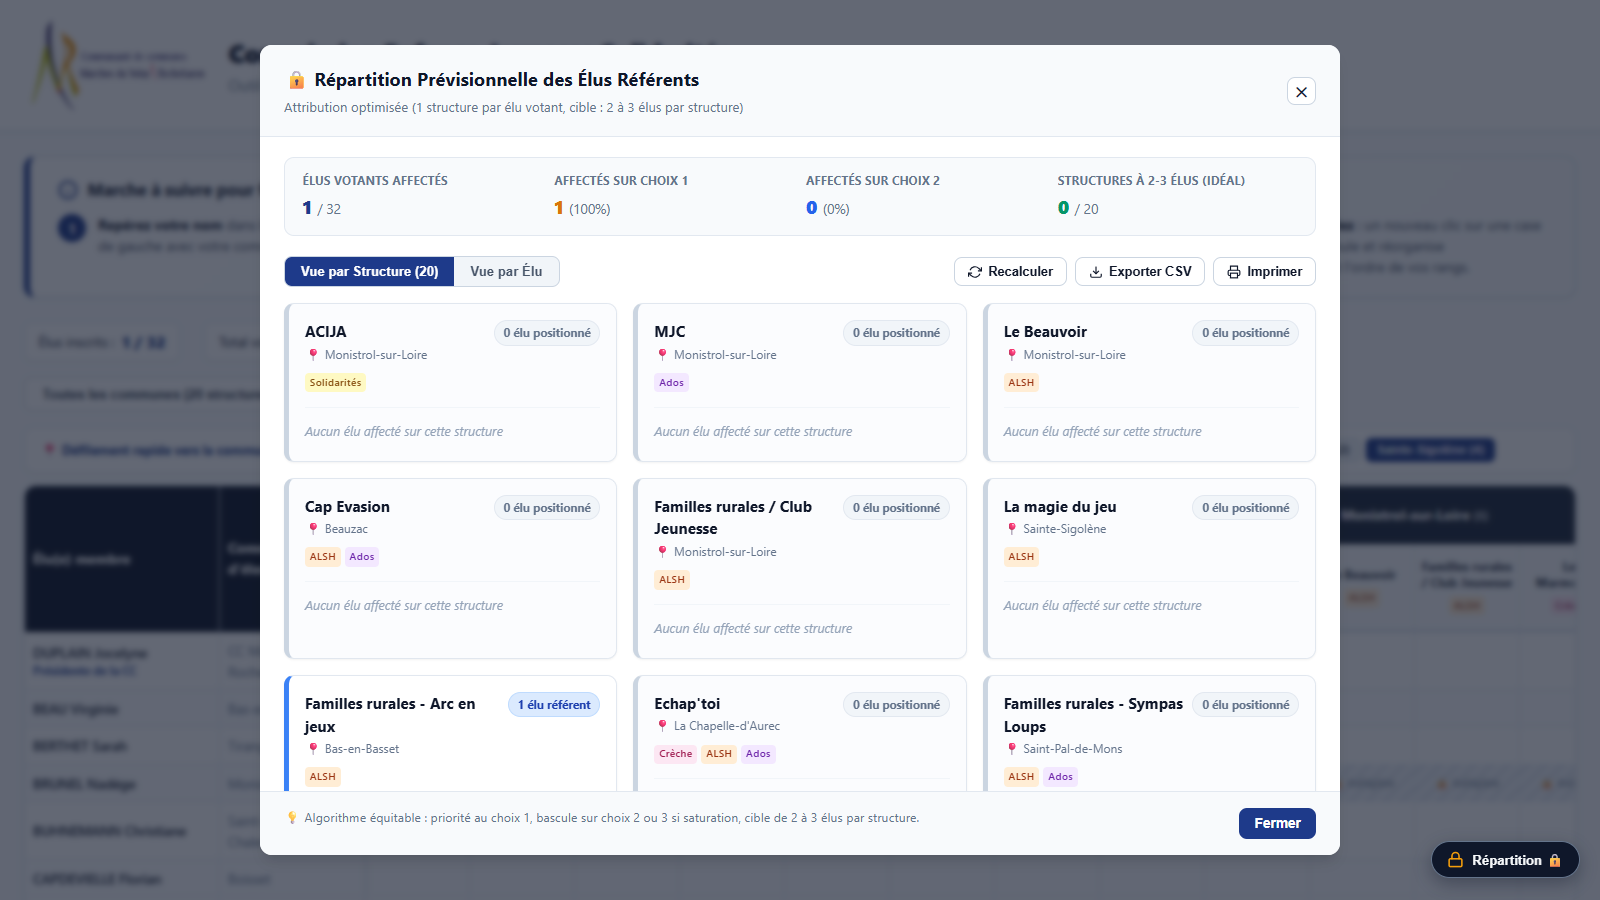
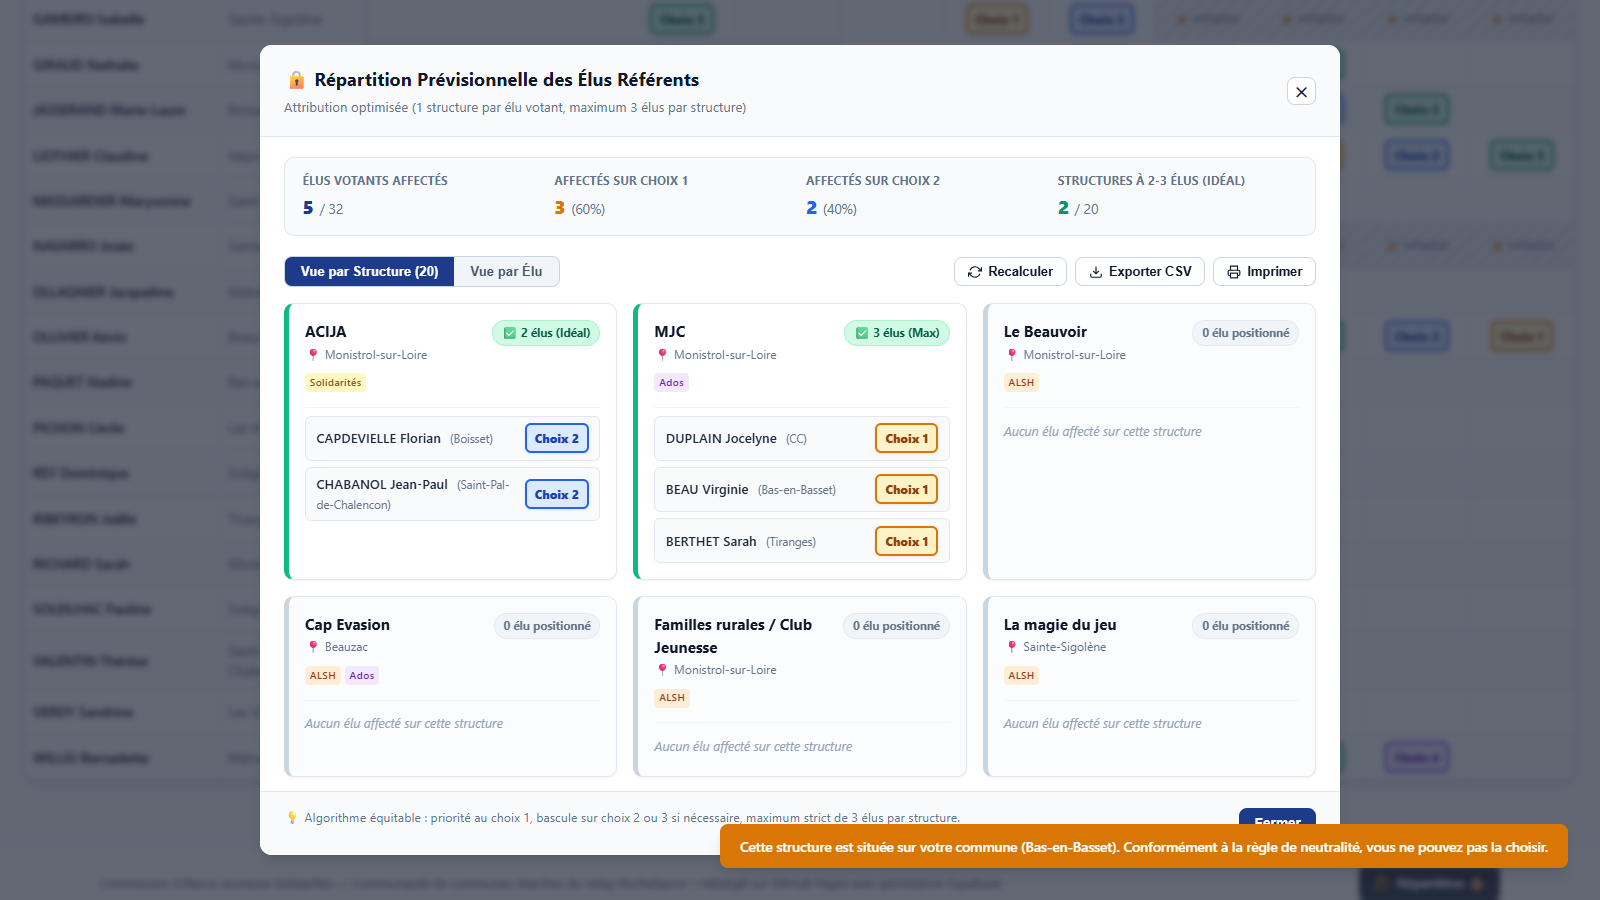
Add files via upload

diff --git a/js/app.js b/js/app.js
@@ -297,6 +297,7 @@ class CommissionApp {
                 }
             };
         }
+        const MAX_PER_STRUCTURE = 3;
 
         const rankCost = (r) => {
             if (r === 1) return 0;
@@ -310,8 +311,8 @@ class CommissionApp {
             if (count === 0) return hadDemand ? 15 : 0;
             if (count === 1) return 5;
             if (count === 2 || count === 3) return 0; // Cible idéale : 2 à 3 élus
-            if (count === 4) return 50;
-            return 50 + (count - 4) * 100;
+            // STRICT MAXIMUM DE 3 : Pénalité rédhibitoire pour tout dépassement de 3
+            return 100000 * (count - 3);
         };
 
         const demandedStructures = new Set();
@@ -324,16 +325,78 @@ class CommissionApp {
         const structureCounts = {};
         this.structures.forEach(s => structureCounts[s.name] = 0);
 
+        // Phase 1 : Affectation initiale avec strict respect de la limite de 3 élus max
         sortedVoters.forEach(v => {
-            let bestChoice = v.choices.find(c => structureCounts[c.structure_nom] < 3);
+            let bestChoice = v.choices.find(c => (structureCounts[c.structure_nom] || 0) < MAX_PER_STRUCTURE);
             if (!bestChoice) {
                 bestChoice = v.choices.reduce((minC, curC) => 
-                    structureCounts[curC.structure_nom] < structureCounts[minC.structure_nom] ? curC : minC
+                    (structureCounts[curC.structure_nom] || 0) < (structureCounts[minC.structure_nom] || 0) ? curC : minC
                 , v.choices[0]);
             }
             assignment[v.elu_nom] = bestChoice.structure_nom;
-            structureCounts[bestChoice.structure_nom]++;
+            structureCounts[bestChoice.structure_nom] = (structureCounts[bestChoice.structure_nom] || 0) + 1;
         });
+
+        // Résolution proactive de tout dépassement (> 3) par réaffectation / chaînes de déplacement
+        const resolveOvercapacity = () => {
+            let changed = true;
+            let guard = 0;
+            while (changed && guard < 100) {
+                changed = false;
+                guard++;
+
+                const overfull = this.structures.filter(s => (structureCounts[s.name] || 0) > MAX_PER_STRUCTURE);
+                if (overfull.length === 0) break;
+
+                for (const s of overfull) {
+                    const elusInS = voters.filter(v => assignment[v.elu_nom] === s.name);
+                    let moved = false;
+
+                    // 1. Déplacement direct vers un choix alternatif avec < 3 élus
+                    for (const v of elusInS) {
+                        const altChoice = v.choices.find(c => c.structure_nom !== s.name && (structureCounts[c.structure_nom] || 0) < MAX_PER_STRUCTURE);
+                        if (altChoice) {
+                            assignment[v.elu_nom] = altChoice.structure_nom;
+                            structureCounts[s.name]--;
+                            structureCounts[altChoice.structure_nom] = (structureCounts[altChoice.structure_nom] || 0) + 1;
+                            moved = true;
+                            changed = true;
+                            break;
+                        }
+                    }
+                    if (moved) continue;
+
+                    // 2. Déplacement en chaîne (2 sauts)
+                    for (const v of elusInS) {
+                        for (const c of v.choices) {
+                            if (c.structure_nom === s.name) continue;
+                            const intermediateStruct = c.structure_nom;
+                            const elusInInter = voters.filter(v2 => assignment[v2.elu_nom] === intermediateStruct);
+                            for (const v2 of elusInInter) {
+                                const freeChoice = v2.choices.find(c2 => c2.structure_nom !== intermediateStruct && (structureCounts[c2.structure_nom] || 0) < MAX_PER_STRUCTURE);
+                                if (freeChoice) {
+                                    assignment[v2.elu_nom] = freeChoice.structure_nom;
+                                    structureCounts[intermediateStruct]--;
+                                    structureCounts[freeChoice.structure_nom] = (structureCounts[freeChoice.structure_nom] || 0) + 1;
+
+                                    assignment[v.elu_nom] = intermediateStruct;
+                                    structureCounts[s.name]--;
+                                    structureCounts[intermediateStruct] = (structureCounts[intermediateStruct] || 0) + 1;
+
+                                    moved = true;
+                                    changed = true;
+                                    break;
+                                }
+                            }
+                            if (moved) break;
+                        }
+                        if (moved) break;
+                    }
+                }
+            }
+        };
+
+        resolveOvercapacity();
 
         const calcTotalCost = () => {
             let cost = 0;
@@ -352,19 +415,21 @@ class CommissionApp {
         let improved = true;
         let iteration = 0;
 
-        while (improved && iteration < 250) {
+        while (improved && iteration < 300) {
             improved = false;
             iteration++;
 
-            // A. Déplacement individuel vers un autre choix
+            // A. Déplacement individuel vers un autre choix (STRICTEMENT plafonné à 3 élus max)
             for (const v of voters) {
                 const curStruct = assignment[v.elu_nom];
                 for (const ch of v.choices) {
                     if (ch.structure_nom === curStruct) continue;
+                    // Interdiction de déplacer un élu vers une structure ayant déjà 3 élus ou plus
+                    if ((structureCounts[ch.structure_nom] || 0) >= MAX_PER_STRUCTURE) continue;
 
                     assignment[v.elu_nom] = ch.structure_nom;
                     structureCounts[curStruct]--;
-                    structureCounts[ch.structure_nom]++;
+                    structureCounts[ch.structure_nom] = (structureCounts[ch.structure_nom] || 0) + 1;
 
                     const newCost = calcTotalCost();
                     if (newCost < currentCost) {
@@ -382,7 +447,7 @@ class CommissionApp {
 
             if (improved) continue;
 
-            // B. Échange (swap) entre 2 votants
+            // B. Échange (swap) entre 2 votants (conserve strictement les effectifs par structure)
             for (let i = 0; i < voters.length; i++) {
                 for (let j = i + 1; j < voters.length; j++) {
                     const v1 = voters[i];
@@ -412,6 +477,9 @@ class CommissionApp {
                 if (improved) break;
             }
         }
+
+        // Sécurité finale : s'assurer qu'aucun dépassement résiduel n'existe
+        resolveOvercapacity();
 
         const structureAllocations = {};
         this.structures.forEach(s => {
@@ -520,14 +588,18 @@ class CommissionApp {
                     cardClass = "status-single";
                     badgeClass = "rep-badge-single";
                     badgeLabel = "1 élu référent";
-                } else if (count >= 2 && count <= 3) {
+                } else if (count === 2) {
                     cardClass = "status-ideal";
                     badgeClass = "rep-badge-ideal";
-                    badgeLabel = `✅ Idéal (${count} élus)`;
+                    badgeLabel = `✅ 2 élus (Idéal)`;
+                } else if (count === 3) {
+                    cardClass = "status-ideal";
+                    badgeClass = "rep-badge-ideal";
+                    badgeLabel = `✅ 3 élus (Max)`;
                 } else if (count > 3) {
                     cardClass = "status-over";
                     badgeClass = "rep-badge-over";
-                    badgeLabel = `⚠ ${count} élus`;
+                    badgeLabel = `⚠ ${count} élus (>3)`;
                 }
 
                 const serviceTags = s.services.map(srv => {

diff --git a/index.html b/index.html
@@ -7,7 +7,7 @@
     <meta http-equiv="Pragma" content="no-cache">
     <meta http-equiv="Expires" content="0">
     <title>Commission Enfance Jeunesse Solidarités - Inscription des Élus aux Structures</title>
-    <link rel="stylesheet" href="css/styles.css?v=2.1">
+    <link rel="stylesheet" href="css/styles.css?v=2.2">
 </head>
 <body>
 
@@ -127,7 +127,17 @@
 
     <!-- 5. PIED DE PAGE -->
     <footer>
-        <p>Commission Enfance Jeunesse Solidarités — Communauté de communes Marches du Velay Rochebaron • Hébergé sur GitHub Pages avec persistance Supabase</p>
+        <div class="footer-inner">
+            <p>Commission Enfance Jeunesse Solidarités — Communauté de communes Marches du Velay Rochebaron • Hébergé sur GitHub Pages avec persistance Supabase</p>
+            <!-- BOUTON DISCRET EN BAS DE PAGE (RÉPARTITION COORDINATEUR) -->
+            <button id="btnOpenRepartitionModal" class="btn-footer-lock" title="Espace coordinateur : Répartition prévisionnelle des élus référents par structure">
+                <svg width="15" height="15" viewBox="0 0 24 24" fill="none" stroke="currentColor" stroke-width="2.2" stroke-linecap="round" stroke-linejoin="round">
+                    <rect x="3" y="11" width="18" height="11" rx="2" ry="2"></rect>
+                    <path d="M7 11V7a5 5 0 0 1 10 0v4"></path>
+                </svg>
+                <span>Répartition 🔒</span>
+            </button>
+        </div>
     </footer>
 
     <!-- 6. MODAL SCRIPT SQL SUPABASE (NON-DESTRUCTIF) -->
@@ -181,22 +191,13 @@ END $$;</pre>
         </div>
     </div>
 
-    <!-- 7. BOUTON CADENAS FLOTTANT (RÉPARTITION COORDINATEUR) -->
-    <button id="btnOpenRepartitionModal" class="btn-floating-lock" title="Espace coordinateur : Répartition prévisionnelle des élus référents par structure">
-        <svg width="17" height="17" viewBox="0 0 24 24" fill="none" stroke="currentColor" stroke-width="2.2" stroke-linecap="round" stroke-linejoin="round">
-            <rect x="3" y="11" width="18" height="11" rx="2" ry="2"></rect>
-            <path d="M7 11V7a5 5 0 0 1 10 0v4"></path>
-        </svg>
-        <span class="floating-lock-text">Répartition 🔒</span>
-    </button>
-
-    <!-- 8. MODAL RÉPARTITION ÉLUS PAR STRUCTURE -->
+    <!-- 7. MODAL RÉPARTITION ÉLUS PAR STRUCTURE -->
     <div id="repartitionModal" class="modal-backdrop" style="display: none;">
         <div class="modal-card modal-repartition-card">
             <div class="modal-header">
                 <div>
                     <h3>🔒 Répartition Prévisionnelle des Élus Référents</h3>
-                    <p class="modal-subtitle">Attribution optimisée (1 structure par élu votant, cible : 2 à 3 élus par structure)</p>
+                    <p class="modal-subtitle">Attribution optimisée (1 structure par élu votant, maximum 3 élus par structure)</p>
                 </div>
                 <button id="btnCloseRepartitionModal" class="btn btn-secondary" style="padding: 0.25rem 0.5rem;">✕</button>
             </div>
@@ -232,7 +233,7 @@ END $$;</pre>
             </div>
 
             <div class="modal-footer">
-                <span class="repartition-footer-note">💡 Algorithme équitable : priorité au choix 1, bascule sur choix 2 ou 3 si saturation, cible de 2 à 3 élus par structure.</span>
+                <span class="repartition-footer-note">💡 Algorithme équitable : priorité au choix 1, bascule sur choix 2 ou 3 si nécessaire, maximum strict de 3 élus par structure.</span>
                 <button id="btnDismissRepartitionModal" class="btn btn-primary">Fermer</button>
             </div>
         </div>
@@ -242,6 +243,6 @@ END $$;</pre>
     <div id="toastContainer" class="toast-container"></div>
 
     <!-- 8. SCRIPTS APPLICATIFS -->
-    <script type="module" src="js/app.js?v=2.1"></script>
+    <script type="module" src="js/app.js?v=2.2"></script>
 </body>
 </html>

diff --git a/css/styles.css b/css/styles.css
@@ -738,43 +738,58 @@ thead tr:nth-child(2) .col-sticky-2 {
 footer {
     background: #ffffff;
     border-top: 1px solid var(--color-border);
-    padding: 1rem 2rem;
-    text-align: center;
-    font-size: 0.8rem;
+    padding: 1.25rem 2rem 2rem 2rem;
     color: var(--color-text-muted);
-    margin-top: auto;
+    margin-top: 2rem;
+}
+
+.footer-inner {
+    max-width: 1400px;
+    margin: 0 auto;
+    display: flex;
+    justify-content: space-between;
+    align-items: center;
+    flex-wrap: wrap;
+    gap: 1.25rem;
+}
+
+.footer-inner p {
+    font-size: 0.8rem;
+    margin: 0;
+    color: var(--color-text-muted);
 }
 
 /* ==========================================================================
-   8. BOUTON CADENAS FLOTTANT & MODAL DE RÉPARTITION PAR STRUCTURE
+   8. BOUTON CADENAS EN BAS DE PAGE & MODAL DE RÉPARTITION PAR STRUCTURE
    ========================================================================== */
+.btn-footer-lock,
 .btn-floating-lock {
-    position: fixed;
-    bottom: 1.25rem;
-    right: 1.25rem;
-    z-index: 950;
     display: inline-flex;
     align-items: center;
     gap: 0.5rem;
     background: #1e293b;
     color: #f8fafc;
     border: 1px solid #334155;
-    padding: 0.55rem 0.95rem;
-    border-radius: 9999px;
-    box-shadow: 0 4px 14px rgba(15, 23, 42, 0.25);
+    padding: 0.45rem 0.85rem;
+    border-radius: 6px;
     cursor: pointer;
-    font-size: 0.825rem;
+    font-size: 0.8rem;
     font-weight: 600;
-    opacity: 0.92;
-    transition: all 0.25s cubic-bezier(0.16, 1, 0.3, 1);
+    transition: all 0.2s ease;
+    opacity: 0.85;
+    box-shadow: 0 1px 3px rgba(15, 23, 42, 0.12);
 }
+
+.btn-footer-lock:hover,
 .btn-floating-lock:hover {
     opacity: 1;
-    transform: translateY(-2px);
-    box-shadow: 0 6px 18px rgba(15, 23, 42, 0.38);
     background: #0f172a;
     border-color: #64748b;
+    transform: translateY(-1px);
+    box-shadow: 0 3px 8px rgba(15, 23, 42, 0.22);
 }
+
+.btn-footer-lock svg,
 .btn-floating-lock svg {
     flex-shrink: 0;
     color: #f59e0b; /* Cadenas or ambré */

diff --git a/scripts/test_ui.py b/scripts/test_ui.py
@@ -146,27 +146,59 @@ def run_tests():
             new_scroll = page.eval_on_selector(".table-scroll-container", "el => el.scrollLeft")
             test("Defilement horizontal declenche par clic sur pastille Sainte-Sigolene", new_scroll > 0)
 
-        # 12. Test du cadenas discret et de la modale de répartition optimale
-        btn_lock = page.locator("#btnOpenRepartitionModal")
-        test("Bouton cadenas discret présent en bas à droite", btn_lock.count() == 1 and btn_lock.is_visible())
+        # 12. Test du bouton Répartition en bas de page (NON flottant) et modale
+        btn_lock = page.locator("footer #btnOpenRepartitionModal")
+        test("Bouton cadenas présent dans le footer en bas de page", btn_lock.count() == 1)
 
-        # On simule l'enregistrement de quelques voeux pour tester l'algorithme de répartition
-        # Clic sur 3 cellules valides différentes
-        cells = page.locator(".matrix-cell:not(.cell-blocked)")
-        cell_count = cells.count()
-        if cell_count >= 5:
-            cells.nth(0).click()
-            time.sleep(0.2)
-            cells.nth(1).click()
-            time.sleep(0.2)
-            cells.nth(2).click()
-            time.sleep(0.2)
+        # Vérifier que le bouton n'est PAS en position fixed (pas flottant sur l'écran)
+        btn_position = page.eval_on_selector("#btnOpenRepartitionModal", "el => window.getComputedStyle(el).position")
+        test("Bouton non flottant (position !== 'fixed')", btn_position != "fixed")
+
+        # Scroll vers le bas pour le rendre visible
+        btn_lock.scroll_into_view_if_needed()
+        time.sleep(0.3)
+        test("Bouton visible après défilement jusqu'au pied de page", btn_lock.is_visible())
+
+        # Test d'affectation avec respect strict du MAX 3 ÉLUS PAR STRUCTURE
+        # On simule via JavaScript 6 élus qui choisissent la même structure en Choix 1 et une autre en Choix 2
+        page.evaluate("""() => {
+            if (window.app) {
+                // Inscrire 5 élus avec choix 1 = "MJC" et choix 2 = "ACIJA"
+                const votersData = [
+                    { elu_nom: "DUPLAIN Jocelyne", elu_commune: "CC", structure_nom: "MJC", structure_commune: "Monistrol-sur-Loire", choix_rang: 1 },
+                    { elu_nom: "DUPLAIN Jocelyne", elu_commune: "CC", structure_nom: "ACIJA", structure_commune: "Monistrol-sur-Loire", choix_rang: 2 },
+                    { elu_nom: "BEAU Virginie", elu_commune: "Bas-en-Basset", structure_nom: "MJC", structure_commune: "Monistrol-sur-Loire", choix_rang: 1 },
+                    { elu_nom: "BEAU Virginie", elu_commune: "Bas-en-Basset", structure_nom: "ACIJA", structure_commune: "Monistrol-sur-Loire", choix_rang: 2 },
+                    { elu_nom: "BERTHET Sarah", elu_commune: "Tiranges", structure_nom: "MJC", structure_commune: "Monistrol-sur-Loire", choix_rang: 1 },
+                    { elu_nom: "BERTHET Sarah", elu_commune: "Tiranges", structure_nom: "ACIJA", structure_commune: "Monistrol-sur-Loire", choix_rang: 2 },
+                    { elu_nom: "CAPDEVIELLE Florian", elu_commune: "Boisset", structure_nom: "MJC", structure_commune: "Monistrol-sur-Loire", choix_rang: 1 },
+                    { elu_nom: "CAPDEVIELLE Florian", elu_commune: "Boisset", structure_nom: "ACIJA", structure_commune: "Monistrol-sur-Loire", choix_rang: 2 },
+                    { elu_nom: "CHABANOL Jean-Paul", elu_commune: "Saint-Pal-de-Chalencon", structure_nom: "MJC", structure_commune: "Monistrol-sur-Loire", choix_rang: 1 },
+                    { elu_nom: "CHABANOL Jean-Paul", elu_commune: "Saint-Pal-de-Chalencon", structure_nom: "ACIJA", structure_commune: "Monistrol-sur-Loire", choix_rang: 2 }
+                ];
+                window.app.inscriptions = votersData;
+                window.app.updateStats();
+            }
+        }""")
+        time.sleep(0.5)
 
         # Ouvrir la modale
         btn_lock.click()
         time.sleep(0.5)
         modal = page.locator("#repartitionModal")
         test("Modale de répartition ouverte après clic sur cadenas", modal.is_visible())
+
+        # Vérifier la règle des 3 élus max
+        allocation_data = page.evaluate("() => window.app.computeOptimalAllocation()")
+        counts = [len(alloc["elus"]) for alloc in allocation_data["structureAllocations"].values()]
+        max_count = max(counts) if counts else 0
+        test("Plafond strict de 3 élus par structure respecté (max <= 3)", max_count <= 3)
+
+        # Vérifier que la MJC a exactement 3 élus (plafond) et ACIJA a les 2 autres
+        mjc_count = len(allocation_data["structureAllocations"]["MJC"]["elus"])
+        acija_count = len(allocation_data["structureAllocations"]["ACIJA"]["elus"])
+        test("MJC plafonnée à 3 élus maximum", mjc_count == 3)
+        test("Surplus correctement redirigé vers ACIJA (2 élus)", acija_count == 2)
 
         # Vérifier les KPIs
         kpi_bar = page.locator("#repartitionKpiBar")
